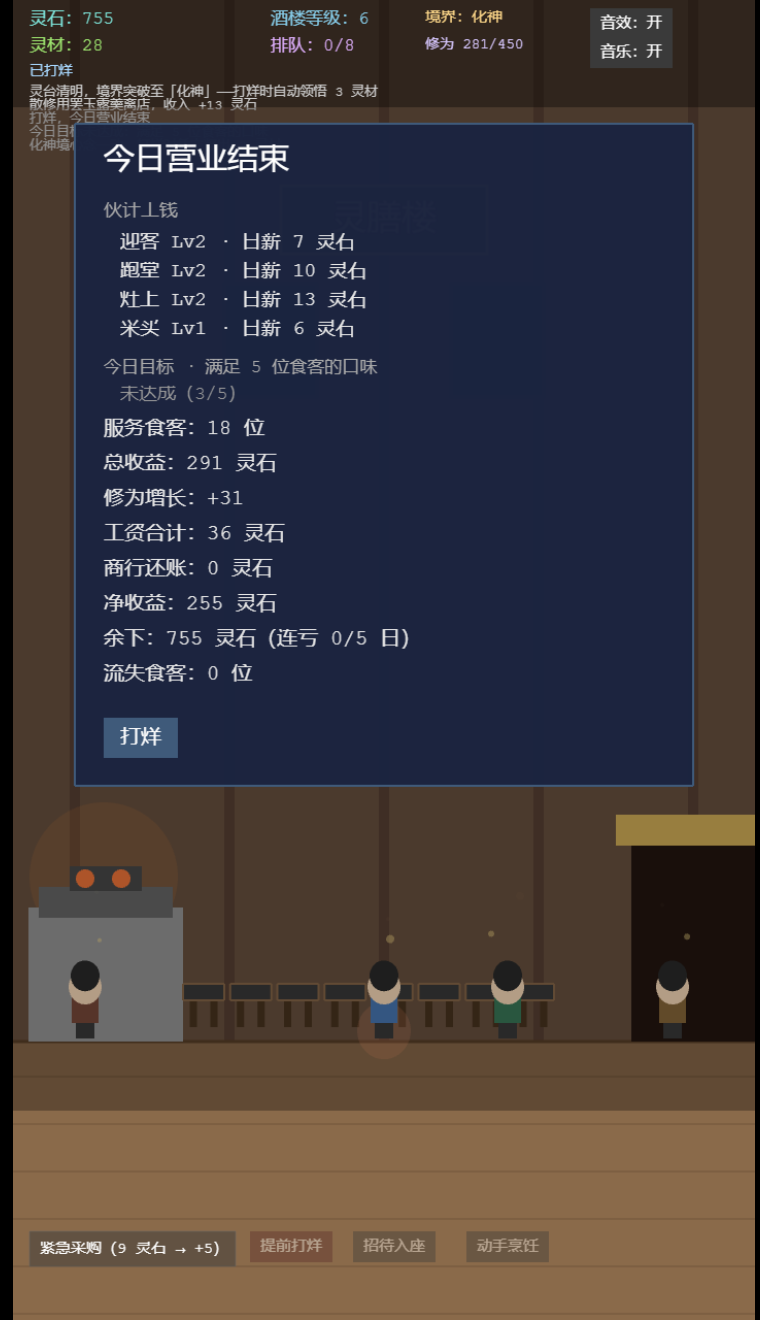
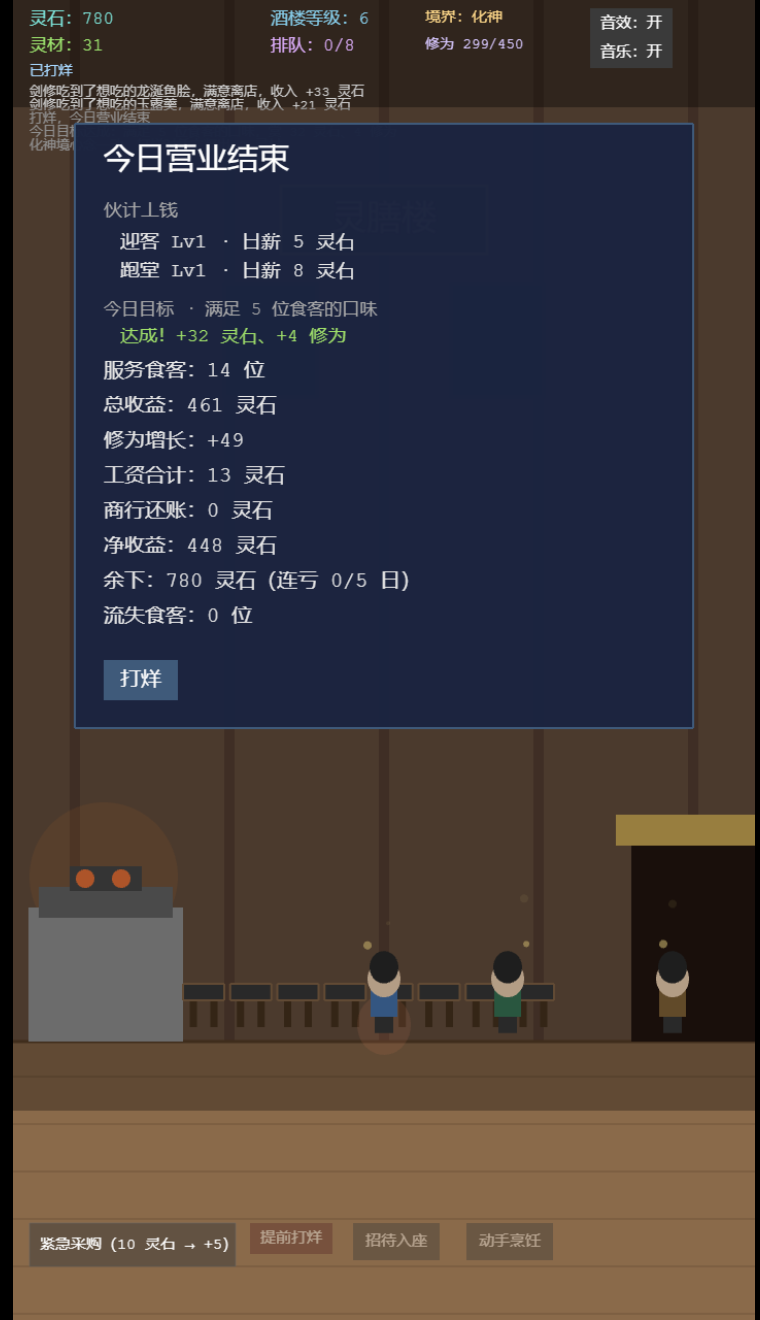
试玩证据：手动对口 13 次命中并达成目标，对比伙计自动 3/5
- 新增中局手动出菜实测行与结算截图
- 明确手动读口味有可测量回报，不是自动化的纯降级

diff --git a/docs/playtest.md b/docs/playtest.md
@@ -9,6 +9,7 @@
 |---|---:|---:|---:|---|
 | 新档首局，全手动（60s） | 9 | 63 灵石 | 0 | 目标「接待 6 位」达成，结算后 125 灵石、修为 30、第 2 日 |
 | 中局挂机：酒楼 6 级、伙计全员 Lv2、灶台/门面 Lv2（两次运行） | 18–19 | 291–340 灵石 | 36 灵石 | 净收益 255–304；0 流失；口味目标 3/5 未达成（伙计只会轮转）；账簿记录单日 19 位/340 灵石 |
+| 中局手动对口（酒楼 6 级、只雇跑堂，手动出菜） | 14 | 461 灵石 | 13 灵石 | 口味命中 13 次；口味目标 5 达成 +32/+4；修为 +49；净收益 448 |
 | 稀客：仙门长老点太虚道果 | 1 | 207 灵石 | 0 | 55 × 2.5（客单价）× 1.5（口味）= 207；修为 +3 |
 | 大乘飞升 | — | — | — | 0→1 重仙缘；等级 3→1、伙计/借据/修为/天数归零；开局 40 灵石/7 灵材；清炒灵蔬 6→7 |
 | 连续第二次飞升 | — | — | — | 仙缘 1→2；开局 40→60 灵石、7→9 灵材；账簿（10 日/50 食客/1000 收益/maxRealm 7）完整保留 |
@@ -16,6 +17,8 @@
 | 破产（仙缘 2、连亏 4、余额 -10） | — | — | — | 新周目保留仙缘 2；开局 60 灵石/9 灵材/第 1 日 |
 | 导出码往返 | — | — | — | 568 字符 `LS1.` 码；导入后灵石 777、第 42 日、仙缘 3、账簿 41 日/300 食客/8000 收益全部保留；导入期间禁止 beforeunload 覆盖 |
 | 一局后的账簿 | 1 | 9 灵石 | 0 | 账簿 days 1 / served 1 / revenue 9 / best 9 / goalsMet 0，随存档落盘 |
+
+同一中局配置下，伙计自动轮转只命中 3/5 口味；玩家手动读口味可命中 13 次并达成目标——手动操作有可测量的回报，不是纯降级。
 
 多周目开局：每 3 重仙缘，新周目酒楼等级 +1（纯逻辑测试覆盖 0/2/3/5/6/30 重：Lv1/1/2/2/3/11），避免高仙缘仍从 1 级重复扩建。
 
@@ -25,7 +28,7 @@
 - 手机营业视图（7 道菜、两行出菜、进度条）：`docs/screenshots/mobile-open.png`
 - 跨周目账簿、本机单日收入前 5 榜与 9/10 成就：`docs/screenshots/ledger.png`
 - 导出码对话框：`docs/screenshots/save-dialog.png`
-- 中局结算（工资、目标、修为增长）：`docs/screenshots/settlement.png`
+- 手动对口达成口味目标的结算（14 位 / 461 灵石 / 目标 +32）：`docs/screenshots/settlement.png`
 
 ## 自动化质量门
 
